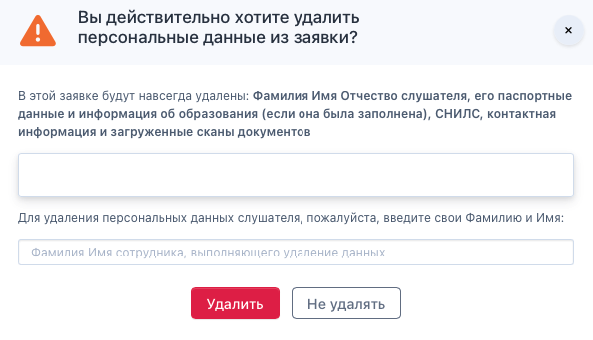
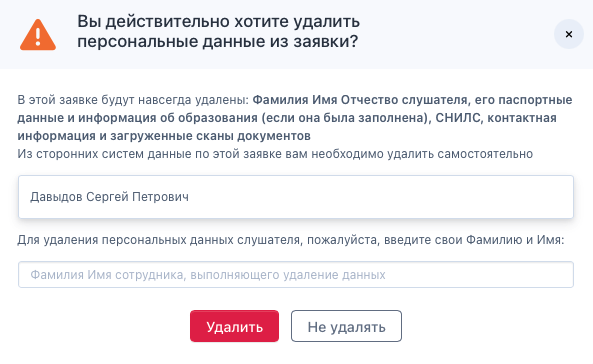
Update 2 files
- slushateli/README/udalenie-personalnykh-dannykh.md
   - slushateli/README/udalenie-personalnykh-dannykh-2.png

diff --git a/slushateli/README/udalenie-personalnykh-dannykh.md b/slushateli/README/udalenie-personalnykh-dannykh.md
@@ -22,6 +22,6 @@ title: Про персональные данные
 \
 При нажатии на кнопку удаления показывается модальное окно:
 
-![](./udalenie-personalnykh-dannykh-2.png){width=593px height=340px}
+![](./udalenie-personalnykh-dannykh-2.png){width=593px height=364px}
 
 При удалении ПД важно помнить, что из сторонних систем данные по заявке необходимо будет удалить самостоятельно.
